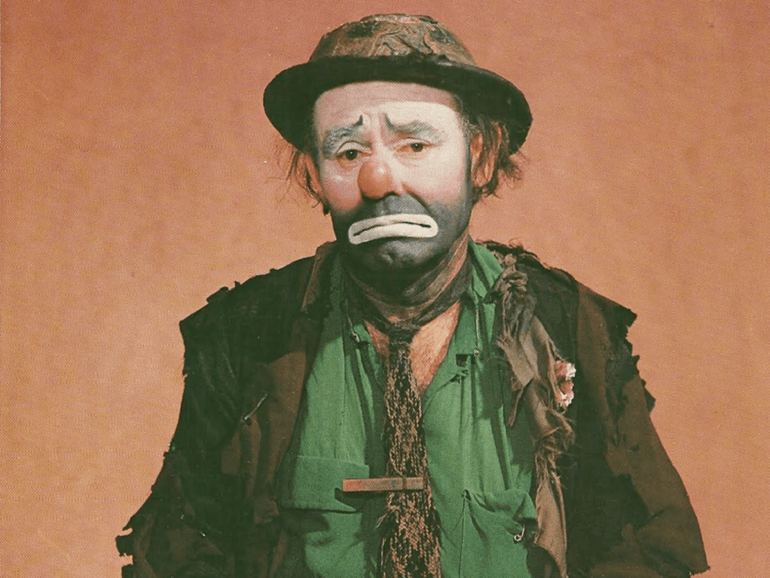
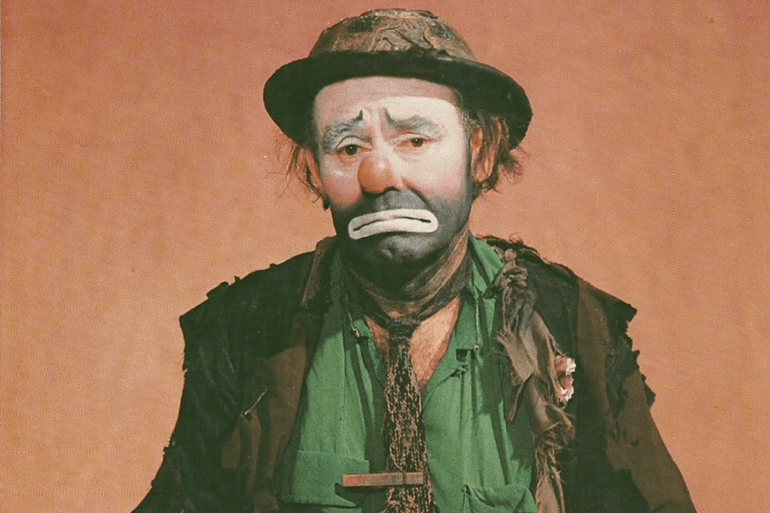
updated to fix sizing

diff --git a/css/styles.css b/css/styles.css
@@ -29,7 +29,7 @@ nav a{
 
 h1, h2, h3{
 	text-align: center;
-	padding: 50px;
+	padding: 45px 10px 30px;
 }
 
 span{
@@ -43,10 +43,10 @@ main{
 }
 
 main p, ol{
-	padding: 60px 40px;
+	padding: 40px;
 	color: #d60024;
 	text-align: center;
-	font-size: 90%;
+	font-size: 70%;
 	word-wrap: break-word;
 	background-image: radial-gradient(#ffffff, #ffffff, #ffffff, #fff5f5, transparent);
 }
@@ -89,13 +89,11 @@ a.skip-to-main:focus{
 	display: block;
 	margin-left: auto;
 	margin-right: auto;
-	height: 20%;
 	width: 20%;
 }
 
 .group-pic, .types{
 	display: block;
-	height: 80%;
 	width: 80%;
 	margin-left: auto;
 	margin-right: auto;
@@ -169,7 +167,6 @@ a.skip-to-main:focus{
 	}
 
 	.group-pic{
-		height: 90%;
 		width: 90%;
 	}
 
@@ -202,8 +199,7 @@ a.skip-to-main:focus{
 		margin: 0 5% auto;
 	}
 	main p, ol{
-		font-size: 80%;
-		margin: 1%;
+		font-size: 100%;
 	}
 
 	section{
@@ -221,18 +217,6 @@ a.skip-to-main:focus{
 
 	.types{
 		width: 40%;
-	}
-
-	.group-pic{
-		display: block;
-		height: 90%;
-		width: 90%;
-	}
-
-	.gallery img{
-		height:30%;
-		width: 30%;
-		padding: 2px;
 	}
 
 	.mckclown img{
